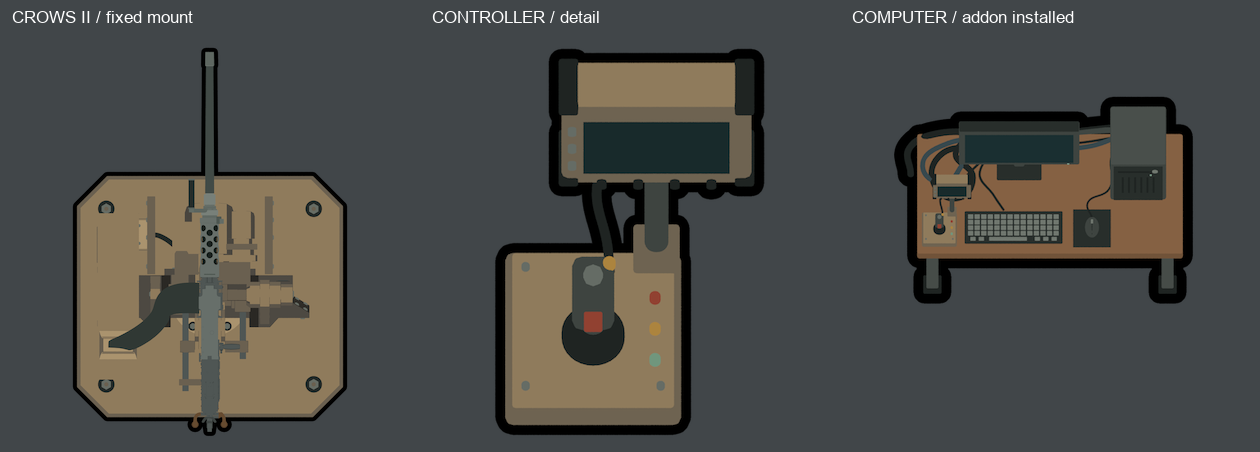
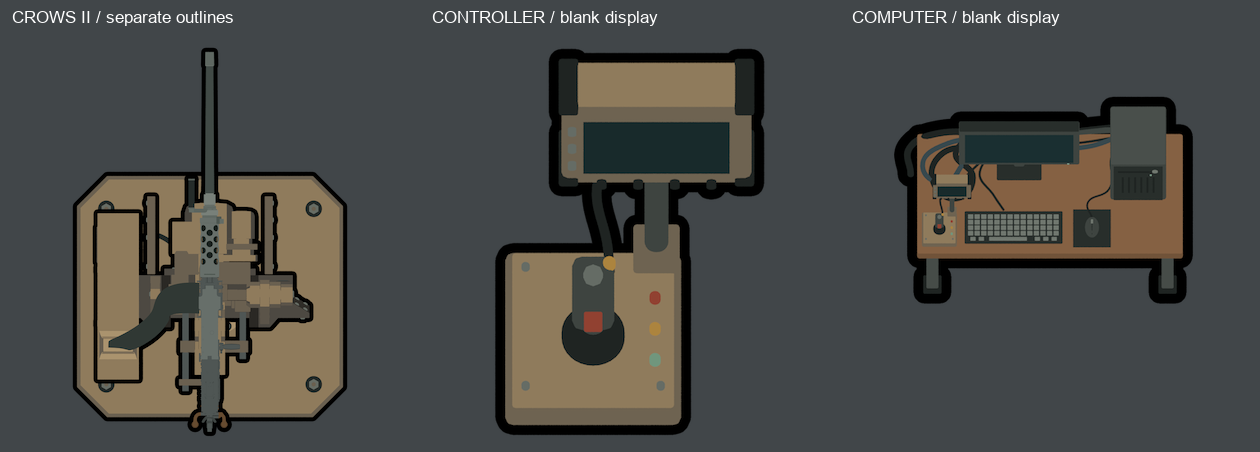
Outline the CROWS station separately from its fixed mounting plate

diff --git a/ArtSource/CROWSII/FixedMount/package.py b/ArtSource/CROWSII/FixedMount/package.py
@@ -1,21 +1,45 @@
 from pathlib import Path
 import json,sys,math
 from PIL import Image
+import numpy as np
 ROOT=Path(__file__).resolve().parent;OUT=ROOT/'output';REPO=ROOT.parents[2]
 sys.path.insert(0,str(ROOT.parents[1]/'PropAssets'));import image_export as e
-meta=json.loads((OUT/'metadata.json').read_text());target=REPO/'Textures/Buildings/Security/CROWSII/FixedMount';files={}
+meta=json.loads((OUT/'metadata.json').read_text());target=REPO/'Textures/Buildings/Security/CROWSII/FixedMount';files={};registration={}
+for direction in ['top','north','east','south','west']:
+    raw=Image.alpha_composite(e.opened(OUT/('plate_'+direction+'_raw.png')),e.opened(OUT/('station_'+direction+'_raw.png')))
+    actual=np.asarray(raw);reference=np.asarray(e.opened(OUT/('assembled_'+direction+'_raw.png')))
+    opaque=(actual[:,:,3]==255)&(reference[:,:,3]==255)
+    differences=opaque&(np.abs(actual[:,:,:3].astype('int16')-reference[:,:,:3].astype('int16')).max(axis=2)>20)
+    ratio=float(np.count_nonzero(differences)/np.count_nonzero(opaque));assert ratio<.001,(direction,ratio)
+    registration[direction]=dict(opaque_color_difference_fraction=ratio,shared_camera_verified=True)
 for direction in ['top','north','east','south','west']:
     scale=3.2 if direction=='top' else 3.6;name='HD_CROWSII_FixedMount_'+direction+'.png'
     files[name]=e.export(e.opened(OUT/('plate_'+direction+'_raw.png')),target/name,1024,.026/scale*1024)
-raw=e.opened(OUT/'assembled_top_raw.png');bbox=raw.getchannel('A').getbbox();crop=raw.crop(bbox);side=math.ceil(max(crop.size)*1024/928);square=Image.new('RGBA',(side,side));square.alpha_composite(crop,((side-crop.width)//2,(side-crop.height)//2))
-name='HD_CROWSII_FixedMount_UI.png';files[name]=e.export(e.resize_linear(square,2048),target/name,1024,10)
+plate=e.opened(OUT/'plate_top_raw.png');station=e.opened(OUT/'station_top_raw.png')
+bbox=Image.alpha_composite(plate,station).getchannel('A').getbbox();side=math.ceil(max(bbox[2]-bbox[0],bbox[3]-bbox[1])*1024/928)
+def icon_layer(raw):
+    crop=raw.crop(bbox);square=Image.new('RGBA',(side,side));square.alpha_composite(crop,((side-crop.width)//2,(side-crop.height)//2))
+    return e.resize_linear(square,2048)
+plate_icon=icon_layer(plate);station_icon=icon_layer(station)
+# Outline both silhouettes before compositing, so the station retains its
+# black boundary where it sits over the opaque foundation.
+outlined_icon=Image.alpha_composite(e.outline(plate_icon,20),e.outline(station_icon,20))
+name='HD_CROWSII_FixedMount_UI.png';files[name]=e.export(outlined_icon,target/name,1024,0)
+single_outline=e.resize_linear(e.outline(Image.alpha_composite(plate_icon,station_icon),20),1024)
+actual=e.opened(target/name);actual_rgb=np.asarray(actual)[:,:,:3];single_rgb=np.asarray(single_outline)[:,:,:3]
+internal_black=(actual_rgb.max(axis=2)<5)&(single_rgb.max(axis=2)>30)&(np.asarray(actual.getchannel('A'))==255)
+assert np.count_nonzero(internal_black)>100,'Missing station outline over the foundation'
 source=REPO/'Textures/Buildings/Security/CROWSII';top=e.opened(target/'HD_CROWSII_FixedMount_top.png')
 for name in ['HD_CROWSII_M2_Base.png','HD_CROWSII_M2_Frame.png','HD_CROWSII_M2Barrel.png','HD_CROWSII_M2Body.png','HD_CROWSII_M2_FeedOverlay.png']:top=Image.alpha_composite(top,e.opened(source/name))
 entries=[('FIXED MOUNT / shared pivot',top)]
 for direction in ['north','east','south','west']:
-    preview=e.resize_linear(e.outline(e.opened(OUT/('assembled_'+direction+'_raw.png')),.026/3.6*2048),1024);entries.append((direction.upper()+' / assembled',preview))
+    name='HD_CROWSII_FixedMount_Station_'+direction+'.png'
+    files[name]=e.export(e.opened(OUT/('station_'+direction+'_raw.png')),target/name,1024,.026/3.6*1024)
+    preview=Image.alpha_composite(e.opened(target/('HD_CROWSII_FixedMount_'+direction+'.png')),e.opened(target/name))
+    e.save(preview,OUT/('assembled_'+direction+'_outlined.png'));entries.append((direction.upper()+' / separate outlines',preview))
 e.sheet(entries,OUT/'preview.png',columns=3)
 e.sheet([('PLATE / '+d.upper(),e.opened(target/('HD_CROWSII_FixedMount_'+d+'.png'))) for d in ['top','north','east','south','west']],OUT/'plate_preview.png',columns=3)
-result=dict(passed=True,files=files,presentation=meta,draw_order=['foundation','base','frame','barrel','body','feed_overlay'],foundation_texture='Buildings/Security/CROWSII/FixedMount/HD_CROWSII_FixedMount_top',weapon_layers_manifest='../output/recoil_layers.json',source_station_unchanged=True,transparent=True,in_game_tested=False)
+result=dict(passed=True,files=files,presentation=meta,draw_order=['foundation','base','frame','barrel','body','feed_overlay'],foundation_texture='Buildings/Security/CROWSII/FixedMount/HD_CROWSII_FixedMount_top',weapon_layers_manifest='../output/recoil_layers.json',source_station_unchanged=True,separate_foundation_and_station_outlines=True,station_outline_pixels_over_foundation=int(np.count_nonzero(internal_black)),directional_station_layers='HD_CROWSII_FixedMount_Station_{north,east,south,west}.png',transparent=True,in_game_tested=False)
+result['layer_registration_against_original_assembly']=registration
 (OUT/'validation.json').write_text(json.dumps(result,indent=2)+'\n')
-print('FIXED_MOUNT_EXPORT_PASS: 1024px separate top/four directions and assembled icon; original recoil layers remain reusable')
+print('FIXED_MOUNT_EXPORT_PASS: foundation/station outlined separately in all directions and UI; original recoil layers remain reusable')

diff --git a/ArtSource/CROWSController/package.py b/ArtSource/CROWSController/package.py
@@ -17,7 +17,7 @@ raw=e.opened(OUT/'controller_ui_raw.png');crop=raw.crop(raw.getchannel('A').getb
 e.sheet(entries,OUT/'preview.png',columns=2);e.sheet(overlays,OUT/'addon_preview.png',columns=2)
 e.sheet([('CONTROLLER / device',e.opened(target/name)),('DESK / installed',entries[0][1])],OUT/'detail_preview.png',columns=2)
 fixed_icon=REPO/'Textures/Buildings/Security/CROWSII/FixedMount/HD_CROWSII_FixedMount_UI.png'
-e.sheet([('CROWS II / fixed mount',e.opened(fixed_icon)),('CONTROLLER / detail',e.opened(target/name)),('COMPUTER / addon installed',entries[0][1])],OUT/'summary_preview.png',columns=3)
+e.sheet([('CROWS II / separate outlines',e.opened(fixed_icon)),('CONTROLLER / blank display',e.opened(target/name)),('COMPUTER / blank display',entries[0][1])],OUT/'summary_preview.png',columns=3)
 result=dict(passed=True,files=files,presentation=meta,transparent=True,registered_overlay_canvas=[3,3],complete_desk_variant_available=True,overlay_outline='shared combined silhouette; no thick cable interiors',original_desk_textures_unchanged=True,in_game_tested=False)
 (OUT/'validation.json').write_text(json.dumps(result,indent=2)+'\n')
 print('CROWS_CONTROLLER_EXPORT_PASS: four registered addon overlays, four complete desk variants and device icon; 512px/12px furniture style')

diff --git a/ArtSource/CROWSII/FixedMount/build.py b/ArtSource/CROWSII/FixedMount/build.py
@@ -73,4 +73,6 @@ scene.camera=top;scene.render.fps=60;scene.frame_start=1;scene.frame_end=6;scene
 m.save(OUT/'fixed_mount.blend')
 metadata=dict(source_crows=str(SOURCE),source_crows_sha256=hashlib.sha256(SOURCE.read_bytes()).hexdigest(),foundation_meshes=len(foundation),station_meshes=len(before),source_station_vertices_preserved=True,source_station_materials_preserved=True,top_draw_size=[3.2,3.2],directional_draw_size=[3.6,3.6],pivot=[0,0],plate_dimensions=[1.5,1.36],station_mount_height=.175,plate_top_contact=.175,ground_anchors=4,central_mount_bolts=6,paint_rgb=palette['equipment_top'],master_resolution=2048,native_resolution=1024,world_outline_tiles=.026,ui_outline_pixels=10,stationary_layer='foundation',weapon_recoil_preserved=source_meta['articulation'],gameplay_definition_added=False)
 (OUT/'metadata.json').write_text(json.dumps(metadata,indent=2)+'\n')
+import runpy
+runpy.run_path(str(ROOT/'render_layers.py'),run_name='__main__')
 print('FIXED_MOUNT_MODEL_PASS: FDE anchored plate, 4 ground anchors and 6 flange bolts; canonical station only translated onto its seat')

diff --git a/ArtSource/CROWSII/FixedMount/render_layers.py b/ArtSource/CROWSII/FixedMount/render_layers.py
@@ -1,0 +1,14 @@
+"""Render the mounted station independently, using the plate's exact cameras."""
+from pathlib import Path
+import bpy,sys
+ROOT=Path(__file__).resolve().parent;OUT=ROOT/'output'
+sys.path.insert(0,str(ROOT.parents[1]/'PropAssets'));import modeling as m
+if __name__=='__main__':
+    bpy.ops.wm.open_mainfile(filepath=str(OUT/'fixed_mount.blend'))
+    scene=bpy.context.scene;scene.frame_set(1)
+    for o in scene.objects:
+        if o.type=='MESH':o.hide_render=o.get('layer')=='foundation'
+    for direction in ['top','north','east','south','west']:
+        cam=scene.objects['Foundation_'+('Top' if direction=='top' else direction)]
+        m.render(OUT/('station_'+direction+'_raw.png'),cam,2048)
+    print('FIXED_MOUNT_LAYER_RENDER_PASS: five station-only views registered to the foundation')

diff --git a/ArtSource/CROWSII/FixedMount/README.md b/ArtSource/CROWSII/FixedMount/README.md
@@ -7,11 +7,14 @@ FDE `(143,123,92)`의 모서리를 자른 철제 밑판, 중앙 장착 플랜지
 - 편집 모델: `output/fixed_mount.blend`
 - 별도 밑판 PNG: `Textures/Buildings/Security/CROWSII/FixedMount/HD_CROWSII_FixedMount_{top,north,east,south,west}.png`
 - 조립 UI 아이콘: `HD_CROWSII_FixedMount_UI.png`
+- 높이 0.175에 장착한 본체 레이어: `HD_CROWSII_FixedMount_Station_{north,east,south,west}.png`
 - 미리보기: `output/preview.png`, `output/plate_preview.png`
 - 기록: `output/metadata.json`, `output/validation.json`
 - 저장 모델의 장착·반동 검증: `output/model_validation.json`
 
-1024×1024 RGBA, 2048px 마스터, 외곽선 0.026칸을 사용한다. 상면은 기존 CROWS 반동 레이어와 같은 drawSize `(3.2,3.2)`, 원점 `(0,0)`이다. **밑판 → 기존 Base → Frame → Barrel → Body → FeedOverlay**로 합성한다. 방향별 밑판은 64° 정사영과 drawSize `(3.6,3.6)`이며 조립 방향별 렌더도 함께 보존했다. 높이로 올라간 CROWS의 측면 가림은 조립 모델에서 반영했다. UI는 10px 외곽선이다.
+1024×1024 RGBA, 2048px 마스터, 외곽선 0.026칸을 사용한다. 상면은 기존 CROWS 반동 레이어와 같은 drawSize `(3.2,3.2)`, 원점 `(0,0)`이다. **밑판 → 기존 Base → Frame → Barrel → Body → FeedOverlay**로 합성한다. 방향별 밑판과 본체는 같은 64° 정사영과 drawSize `(3.6,3.6)`으로 별도 출력하며, 각각 윤곽선을 두른 다음 밑판 위에 본체를 합성한다. 본체와 밑판이 겹치는 부분에도 본체 윤곽선이 남는다. 방향별 본체 레이어는 정지 이미지이며 상면의 기존 리코일 분리 레이어는 유지한다. UI도 같은 원점·크롭으로 두 레이어 각각 10px 윤곽선을 만든 뒤 합성한다. 합친 실루엣 바깥쪽에만 윤곽선을 두르지 않는다.
+
+`output/station_{top,north,east,south,west}_raw.png`는 윤곽선 없는 본체 렌더이고, `output/assembled_{north,east,south,west}_outlined.png`는 분리 윤곽선 조립 결과다. `render_layers.py`는 저장 모델과 기존 밑판 카메라를 읽어 본체 레이어만 다시 렌더한다. 빌드에서도 자동 실행한다.
 
 ```powershell
 & 'C:/Program Files/Blender Foundation/Blender 5.1/blender.exe' --background -t 6 --python-exit-code 1 --python ArtSource/CROWSII/FixedMount/build.py
